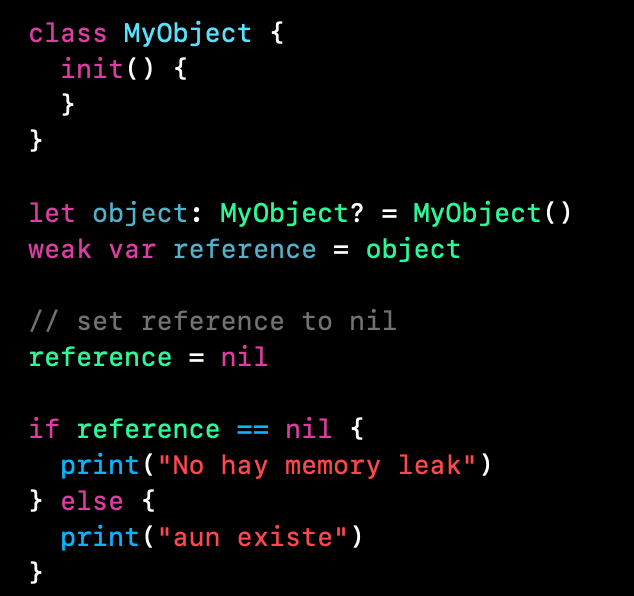
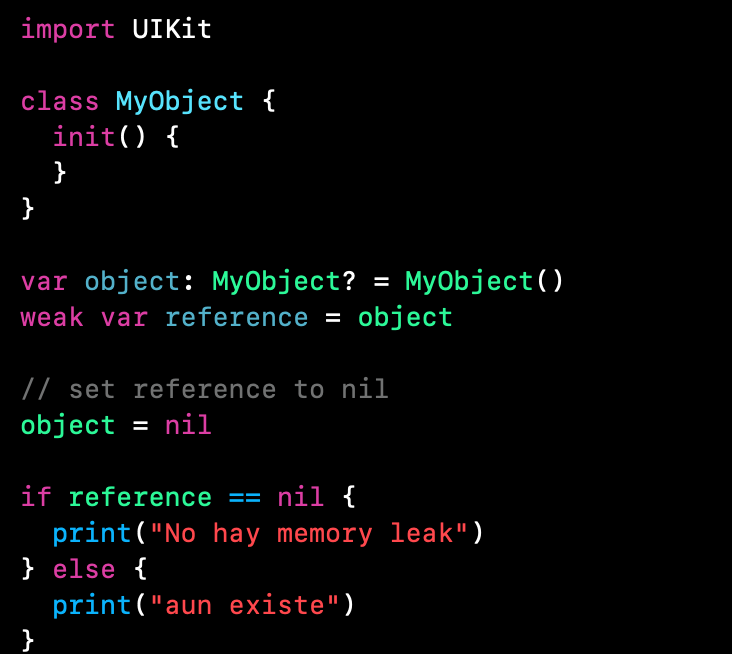
Sesion-06

diff --git a/Sesion-06/Ejemplo-02/WeakReferences.playground/Contents.swift b/Sesion-06/Ejemplo-02/WeakReferences.playground/Contents.swift
@@ -1,3 +1,4 @@
+
 import UIKit
 
 class MyObject {
@@ -11,7 +12,7 @@ weak var reference = object
 // set reference to nil
 object = nil
 
-if object == nil {
+if reference == nil {
   print("No hay memory leak")
 } else {
   print("aun existe")

diff --git a/Sesion-06/Ejemplo-03/debugging/ARCapp/ARCapp/Animal.swift b/Sesion-06/Ejemplo-03/debugging/ARCapp/ARCapp/Animal.swift
@@ -9,7 +9,7 @@ import Foundation
 
 class Animal {
   let name: String
-  var food: Food?
+  weak var food: Food?
   
   init(name: String) {
     self.name = name

diff --git a/Sesion-06/Ejemplo-03/debugging/ARCapp/ARCapp/Food.swift b/Sesion-06/Ejemplo-03/debugging/ARCapp/ARCapp/Food.swift
@@ -9,7 +9,7 @@ import Foundation
 
 class Food {
 
-  var animal: Animal?
+  weak var animal: Animal?
   
   init() {
     print("Food was created")

diff --git a/Sesion-06/Ejemplo-03/Readme.md b/Sesion-06/Ejemplo-03/Readme.md
@@ -1,27 +1,49 @@
+`Desarrollo Mobile` > `Swift Intermedio` 
 
-agrega el programa que se desarrollara con backticks> [agrega la sesion con backticks]
-
-## Titulo del Ejemplo
+## Debuggeando Retain Cycles
 
 ### OBJETIVO
 
-- Lo que esperamos que el alumno aprenda
+- Aprender a utilizar las herramientas de Xcode para encontrar Memory Leaks o Retain Cycles.
 
 #### REQUISITOS
 
-1. Lo necesario para desarrollar el ejemplo o el Reto
+1. Xcode 11.
+2. Ejemplo-01 funcionando.
 
 #### DESARROLLO
 
-Agrega las instrucciones generales del ejemplo o reto
+1.- Con base al código del Ejemplo-01, ejecutaremos la app y nos aseguraremos de que las funciones *deinit{ }* no son invocadas.
 
-<details>
+2.- Ubicamos el botón en Xcode de Debug Memory Graph.
 
-        <summary>Solucion</summary>
-        <p> Agrega aqui la solucion</p>
-        <p>Recuerda! escribe cada paso para desarrollar la solución del ejemplo o reto </p>
-</details>
+![](1.png)
 
-Agrega una imagen dentro del ejemplo o reto para dar una mejor experiencia al alumno (Es forzoso que agregages al menos una) ![imagen](https://picsum.photos/200/300)
+3.- Este botón nos permitirá ver nuestras referencias en un modo gráfico.
+
+![](2.png)
+
+4.- Al seleccionar un elemento vemos como esta conectado con otra referencia y también muestra el conteo de referencias de ARC.
+
+![](3.png)
+
+5.- Vemos que aparecen muchos elementos en el Navigation, filtremos todos ellos, solo mostraremos los Leaks Blocks.
+
+![](4.png)
+
+6.- El navigator se reduce bastante, solo nos muestra los LEAK BLOCKS que tenemos.
+
+![](5.png)
+
+7.- Vemos que los dos LEAKS que tenemos están relacionados con los mismos objetos.
+
+![](0.gif)
+
+8.- Resolvemos el problema convirtiendo las variables en **weak**.
+
+![](6.png)
+
+![](7.png)
+
 
 

diff --git a/Sesion-06/Ejemplo-02/Readme.md b/Sesion-06/Ejemplo-02/Readme.md
@@ -1,27 +1,26 @@
 
-agrega el programa que se desarrollara con backticks> [agrega la sesion con backticks]
+`Desarrollo Mobile` > `Swift Intermedio` 
 
-## Titulo del Ejemplo
+## Implementación de Referencias Weak
 
 ### OBJETIVO
 
-- Lo que esperamos que el alumno aprenda
+- Aprender a romper Retain Cycle
 
 #### REQUISITOS
 
-1. Lo necesario para desarrollar el ejemplo o el Reto
+1. Xcode 11
+2. Entendimiento de creación de Clases.
 
 #### DESARROLLO
 
-Agrega las instrucciones generales del ejemplo o reto
+1.- Crear un Playground nuevo y crear una clase simple.
 
-<details>
+2.- Crear una instancia de dicha clase, luego implementar una variable de tipo `weak` asignandole el objeto creado.
 
-        <summary>Solucion</summary>
-        <p> Agrega aqui la solucion</p>
-        <p>Recuerda! escribe cada paso para desarrollar la solución del ejemplo o reto </p>
-</details>
+3.- Asignaremos la referencia como `nil`.
 
-Agrega una imagen dentro del ejemplo o reto para dar una mejor experiencia al alumno (Es forzoso que agregages al menos una) ![imagen](https://picsum.photos/200/300)
+4.- Verificamos mediante un IF-ELSE si el primer objeto creado aun existe o no.
 
+![](0.png)
 

diff --git a/Sesion-06/Readme.md b/Sesion-06/Readme.md
@@ -16,7 +16,7 @@
 
 - Como y que es ARC
 
-- Object’s Lifetime
+- Ciclo de vida de un Objeto
 
 - Reference Cycles y Retain Cycles
 
@@ -28,7 +28,7 @@
 	- [Ejemplo 02](Ejemplo-02)
 	- [Reto 02](Reto-02)
 
-- **Debugging**. Buscando Reference Cycles con Xcode
+- Debugging. Buscando Reference Cycles con Xcode
 
 	- [Ejemplo 03](Ejemplo-03)
 	- [Reto 03](Reto-03)

diff --git a/Sesion-06/Reto-01/Readme.md b/Sesion-06/Reto-01/Readme.md
@@ -1,6 +1,5 @@
  
-
-agrega el programa que se desarrollara con backticks> [agrega la sesion con backticks] 
+`Desarrollo Mobile` > `Swift Intermedio` 
 	
 ## Titulo del Ejemplo 
 
